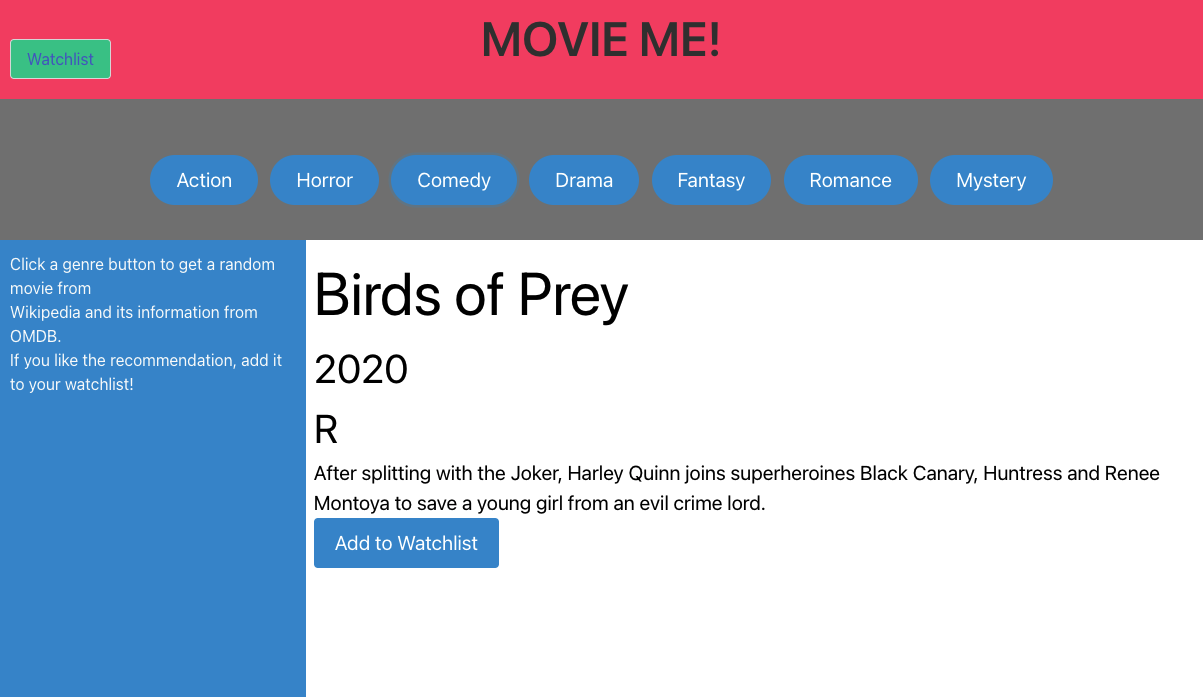
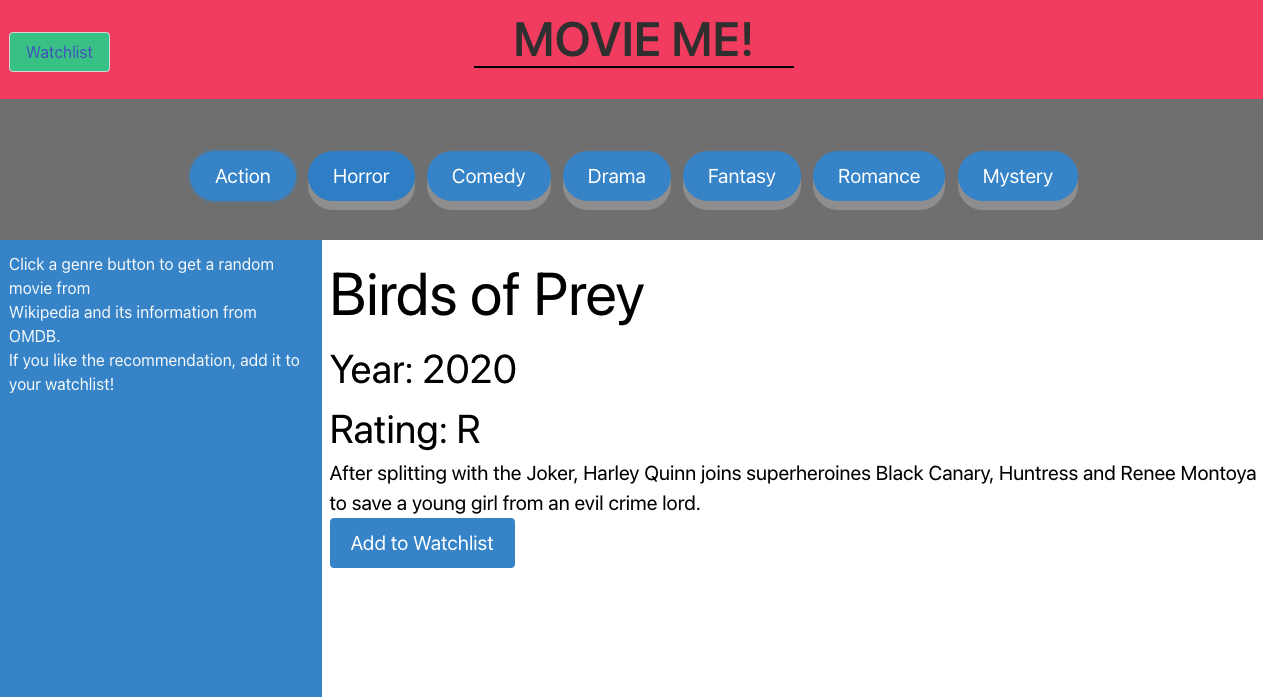
added Rating

diff --git a/index.html b/index.html
@@ -46,25 +46,46 @@
           "
           id="genre-filter"
         >
-          <button class="btn button is-info is-rounded btn-animate mb-4 mt-3" id="action-button">
+          <button
+            class="btn button is-info is-rounded btn-animate mb-4 mt-3"
+            id="action-button"
+          >
             Action
           </button>
-          <button class="btn button is-info is-rounded btn-animate mb-4 mt-3" id="horror-button">
+          <button
+            class="btn button is-info is-rounded btn-animate mb-4 mt-3"
+            id="horror-button"
+          >
             Horror
           </button>
-          <button class="btn button is-info is-rounded btn-animate mb-4 mt-3" id="comedy-button">
+          <button
+            class="btn button is-info is-rounded btn-animate mb-4 mt-3"
+            id="comedy-button"
+          >
             Comedy
           </button>
-          <button class="btn button is-info is-rounded btn-animate mb-4 mt-3" id="drama-button">
+          <button
+            class="btn button is-info is-rounded btn-animate mb-4 mt-3"
+            id="drama-button"
+          >
             Drama
           </button>
-          <button class="btn button is-info is-rounded btn-animate mb-4 mt-3" id="fantasy-button">
+          <button
+            class="btn button is-info is-rounded btn-animate mb-4 mt-3"
+            id="fantasy-button"
+          >
             Fantasy
           </button>
-          <button class="btn button is-info is-rounded btn-animate mb-4 mt-3" id="romance-button">
+          <button
+            class="btn button is-info is-rounded btn-animate mb-4 mt-3"
+            id="romance-button"
+          >
             Romance
           </button>
-          <button class="btn button is-info is-rounded btn-animate mb-4 mt-3" id="mystery-button">
+          <button
+            class="btn button is-info is-rounded btn-animate mb-4 mt-3"
+            id="mystery-button"
+          >
             Mystery
           </button>
         </div>

diff --git a/assets/javascript/script.js b/assets/javascript/script.js
@@ -136,9 +136,9 @@ const saveMovie = () => {
 };
 
 const displayMovie = function () {
-  //displayArea.textContent = currentMovie.title;
-  displayArea.innerHTML = `<h1 id="title" class="movie-info">${currentMovie.title}</h1><p id="year" class="movie-info">${currentMovie.year}</p>
-  <p id="rating" class="movie-info">${currentMovie.rating}</p><p id="plot" class="movie-info">${currentMovie.plot}</p>
+  // Populate display with movie data
+  displayArea.innerHTML = `<h1 id="title" class="movie-info">${currentMovie.title}</h1><p id="year" class="movie-info">Year: ${currentMovie.year}</p>
+  <p id="rating" class="movie-info">Rating: ${currentMovie.rating}</p><p id="plot" class="movie-info">${currentMovie.plot}</p>
   <button class="movie-info btn button is-medium is-info" id="watchlist-button">Add to Watchlist</button>`;
 
   // Add event listener to our new Add to Watchlist button

diff --git a/README.md b/README.md
@@ -2,9 +2,11 @@
 
 USER STORY
 
-AS AN indecisive movie enthusiast
-I WANT to get a movie recommendation based on genre
-SO THAT I can watch a new movie
+## AS AN indecisive movie enthusiast
+
+## I WANT to get a movie recommendation based on genre
+
+## SO THAT I can watch a new movie
 
 # Usage
 
